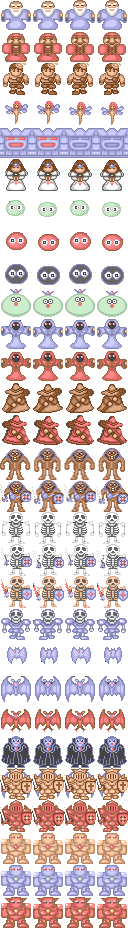
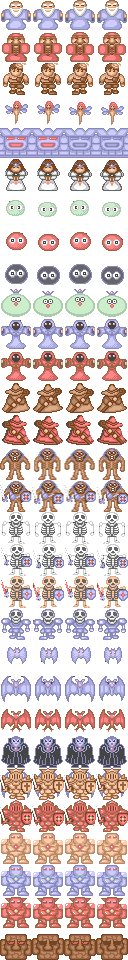
添加石头怪

diff --git a/javascript/gameData.js b/javascript/gameData.js
@@ -11,16 +11,6 @@
  [0, 0, 0, 0, 0, 0, 0, 0, 0, 0, 0],
  [0, 0, 0, 0, 0, 0, 0, 0, 0, 0, 0]
  * */
-// function test (a, b) {
-//     const c = []
-//     for (var index = 0; index < a.length; index++) {
-//         c[index] = []
-//         for (var i = 0; i < a[index].length; i++) {
-//             c[index][i] = a[index][i] === 0 ? b[index][i] : a[index][i]
-//         }
-//     }
-//     return c
-// }
 var globalData;
 globalData = {
   mapCol: 11,
@@ -244,8 +234,8 @@ globalData = {
     ],
     things: [
       ["goods_4_3", "monster12", 0, "goods_0_3", 0, "goods_3_0", "monster3", "goods_5_0", 0, "goods_2_1", "goods_2_1"],
-      ["monster12", "goods_3_0", 0, "goods_0_2", 0, 0, "goods_3_0", "monster3", 0, 0, "goods_2_1"],
-      ["goods_3_0", "monster16", "goods_1_1", 0, "goods_1_1", "monster16", 0, "goods_3_0", 0, 0, 0],
+      ["monster12", "goods_3_0", 0, "goods_0_2", 0, 0, "goods_3_0", "monster3", 0, 'monster23', "goods_2_1"],
+      ["goods_3_0", "monster16", "goods_1_1", 0, "goods_1_1", "monster16", 0, "goods_3_0", 0, 0, 'monster23'],
       [0, 0, 0, "monster20", 0, 0, 0, 0, 0, "monster7", 0],
       [0, 0, 0, "goods_1_2", 0, 0, 0, 0, 0, "goods_1_0", 0],
       [0, 0, "monster5", 0, "goods_3_0", "goods_3_0", "goods_3_0", 0, "monster5", 0, 0],

diff --git a/javascript/main.js b/javascript/main.js
@@ -193,7 +193,7 @@ function addThings() {
           bitMap = new LBitmap(bitMapDataCell);
         } else if (configChara[key]) {
           bitMapData = new LBitmapData(imgList['chara']);
-          mapImagesArray = LGlobal.divideCoordinate(bitMapData.width, bitMapData.height, 29, 4);
+          mapImagesArray = LGlobal.divideCoordinate(bitMapData.width, bitMapData.height, 30, 4);
           bitMap = new LAnimationTimeline(bitMapData, mapImagesArray);
           bitMap.setLabel("Chara", configChara[key].y, 0, 1, true);
           bitMap.speed = 5;
